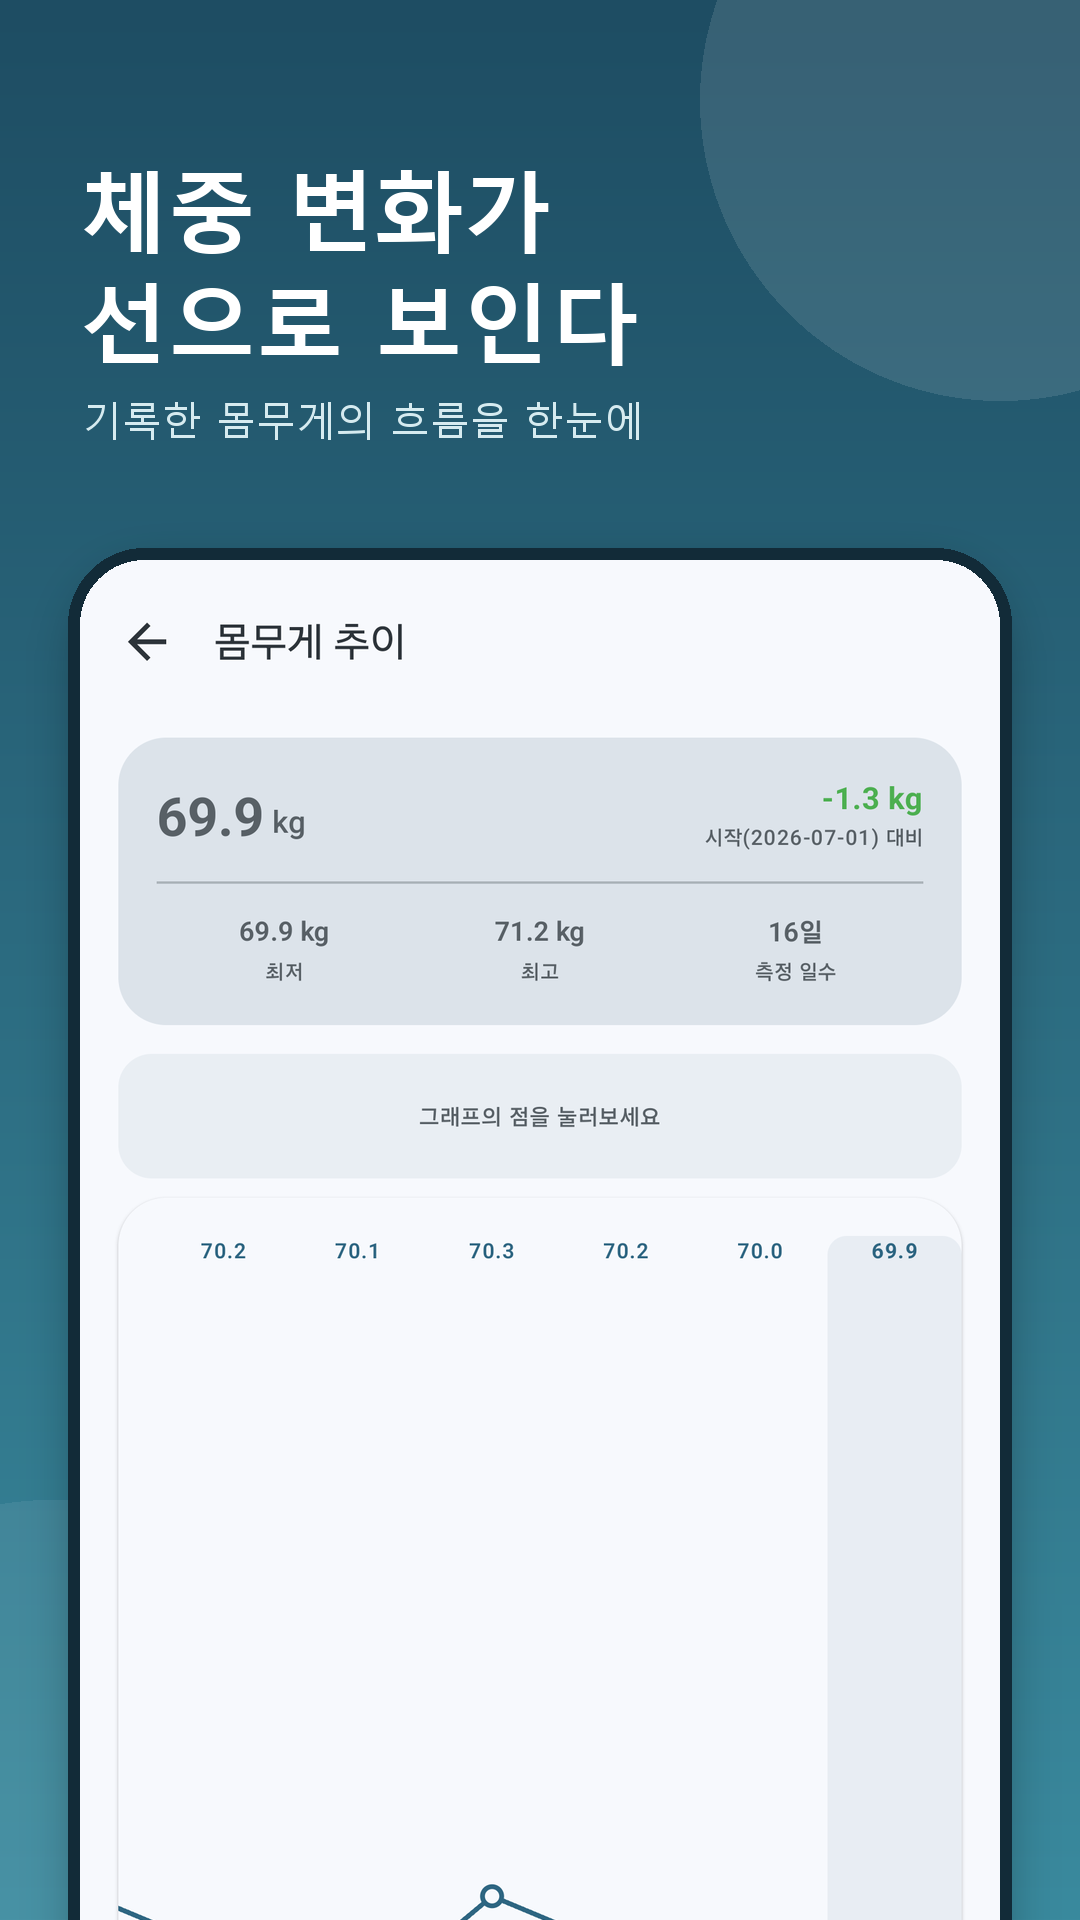
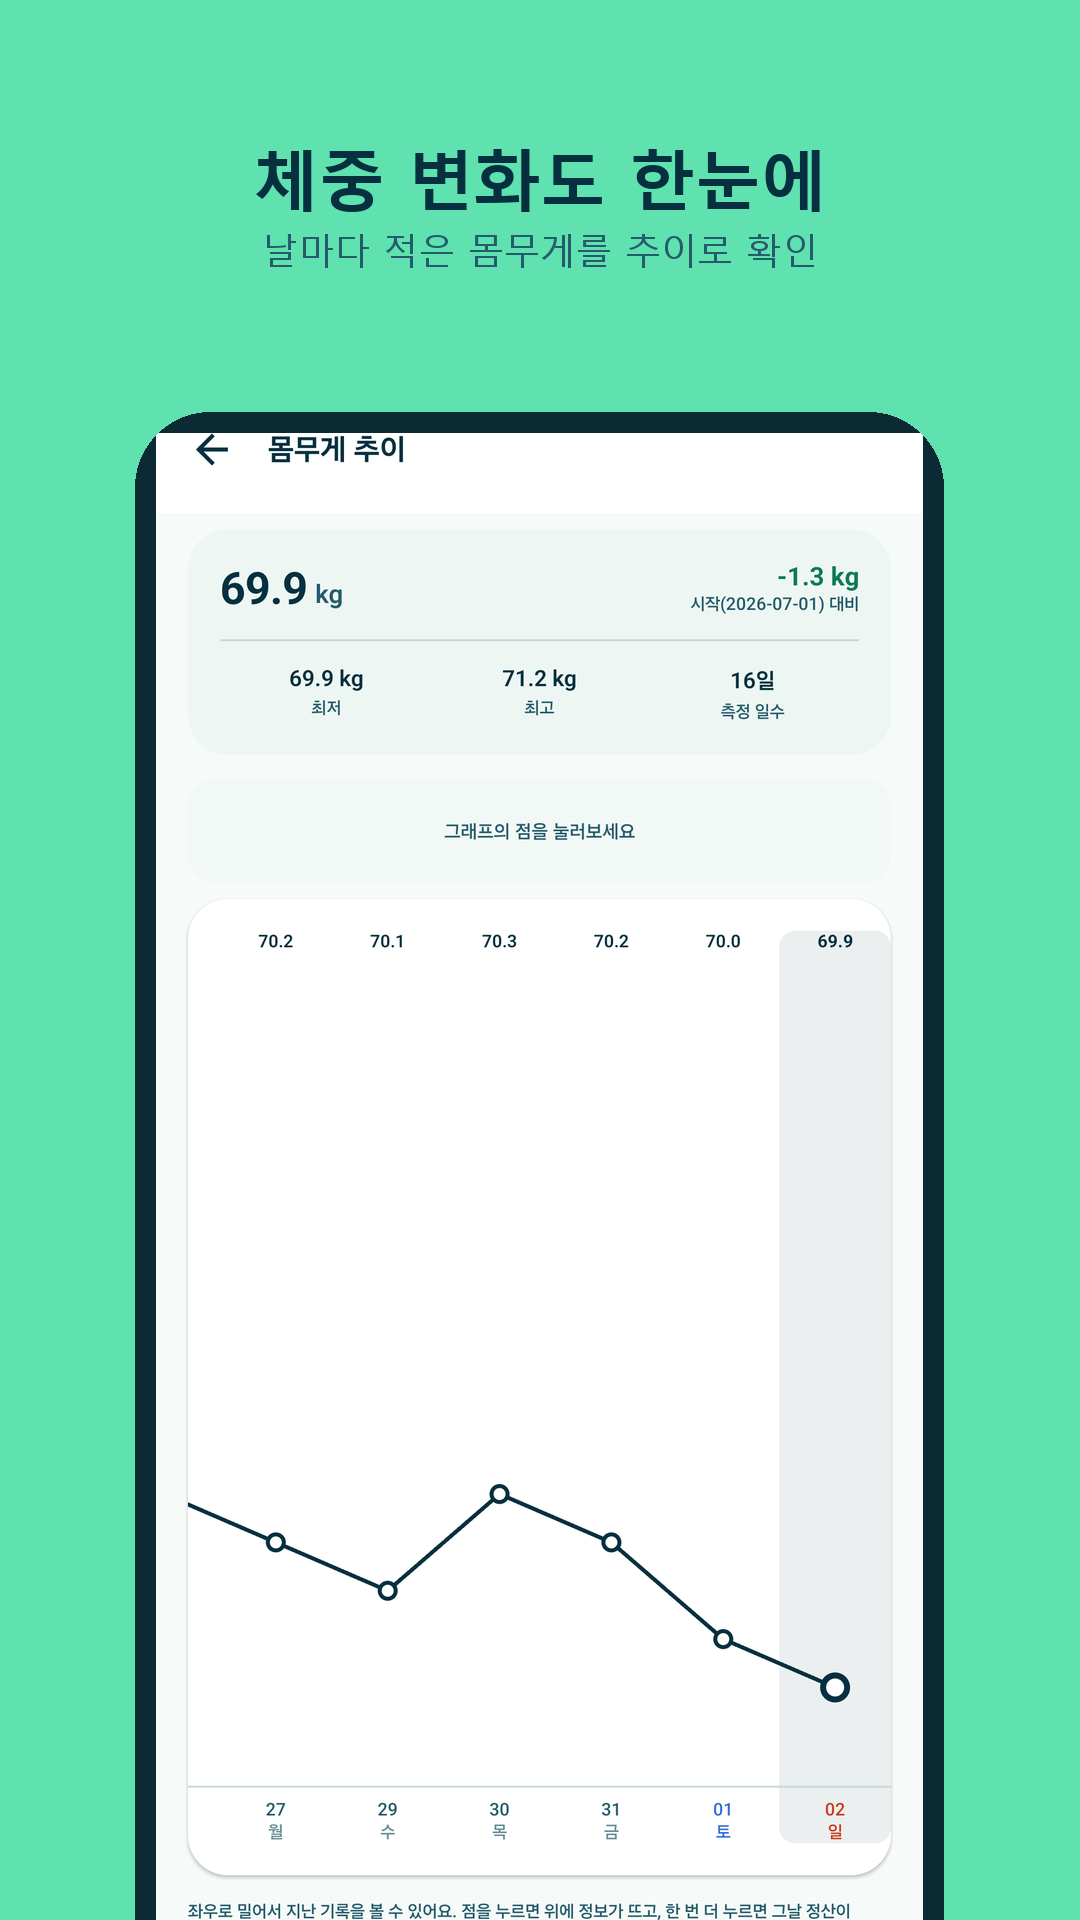
플레이 스토어 아이콘·그래픽 이미지·스크린샷 5장을 새 디자인으로 교체하고 등록정보 업로드에 아이콘·그래픽 포함
- play_listing.py: store-listing/ko-KR/icon.png(512)·feature-graphic.png(1024×500) 도 올린다
- 스크린샷은 테스트 계정 화면을 tools/make_store_shots.py 로 합성 (캡처 원본은 gitignore)
- 웹 랜딩 스크린샷 3장(main/report/month.webp)도 같은 캡처로 갱신

diff --git a/tools/make_store_shots.py b/tools/make_store_shots.py
@@ -1,0 +1,138 @@
+"""
+플레이 스토어 스크린샷·그래픽 이미지를 합성한다.
+
+입력: tools/store-captures/NN-<이름>.png  (폰 원본 캡처. 상태바 포함. 어떤 해상도든 됨)
+      tools/store-captures/captions.txt     (한 줄에 "NN|제목|부제". NN 은 파일 접두어)
+출력: store-listing/ko-KR/screenshots/NN.png          1080×1920 (휴대전화)
+      store-listing/ko-KR/screenshots-tablet/NN.png   1200×1920 (7·10인치 칸에 같은 파일)
+      store-listing/ko-KR/feature-graphic.png         1024×500  (그래픽 이미지)
+
+사용: python tools/make_store_shots.py   (저장소 루트에서. Pillow 필요. 한글 폰트는 Windows 의 malgun.ttf)
+
+규칙 (2026-11-16 리디자인 기획서 4.2)
+- 배경은 민트와 딥틸을 번갈아 쓴다
+- 장마다 제목 1줄 + 부제 1줄, 폰 화면이 세로의 60% 이상, 상태바 제거, 기능 1개씩
+- Play 규격: 2~8장, 16:9~9:16, 각 변 320~3840px
+
+캡처 원본은 저장소에 넣지 않는다 (개인 기록이 들어 있다). 이 스크립트와 captions.txt 만 남긴다.
+"""
+from pathlib import Path
+
+from PIL import Image, ImageDraw, ImageFont
+
+ROOT = Path(__file__).resolve().parent.parent
+CAPTURES = ROOT / "tools/store-captures"
+OUT_PHONE = ROOT / "store-listing/ko-KR/screenshots"
+OUT_TABLET = ROOT / "store-listing/ko-KR/screenshots-tablet"
+
+INK = (0x06, 0x30, 0x3F)
+MINT = (0x5F, 0xE1, 0xB0)
+CORAL = (0xFF, 0x4D, 0x2E)
+WHITE = (255, 255, 255)
+SUB_ON_MINT = (0x24, 0x5C, 0x6C)
+SUB_ON_INK = (0xBF, 0xE9, 0xDA)
+
+FONT_BOLD = "C:/Windows/Fonts/malgunbd.ttf"
+FONT_REG = "C:/Windows/Fonts/malgun.ttf"
+
+# 상태바 높이 비율. 캡처 폭 1440 기준 상단 약 110px 가 상태바다 (폰마다 다르면 여기만 고친다)
+STATUS_BAR_RATIO = 110 / 1440
+
+
+def font(path: str, size: int) -> ImageFont.FreeTypeFont:
+    return ImageFont.truetype(path, size)
+
+
+def rounded_mask(size, radius):
+    m = Image.new("L", size, 0)
+    ImageDraw.Draw(m).rounded_rectangle([0, 0, size[0] - 1, size[1] - 1], radius=radius, fill=255)
+    return m
+
+
+def compose(capture: Image.Image, title: str, subtitle: str, dark: bool, size=(1080, 1920)) -> Image.Image:
+    W, H = size
+    bg = INK if dark else MINT
+    fg = WHITE if dark else INK
+    sub = SUB_ON_INK if dark else SUB_ON_MINT
+    im = Image.new("RGB", (W, H), bg)
+    d = ImageDraw.Draw(im)
+
+    # 글
+    t_font = font(FONT_BOLD, int(W * 0.062))
+    s_font = font(FONT_REG, int(W * 0.034))
+    top = int(H * 0.07)
+    tw = d.textlength(title, font=t_font)
+    d.text(((W - tw) / 2, top), title, font=t_font, fill=fg)
+    sw = d.textlength(subtitle, font=s_font)
+    d.text(((W - sw) / 2, top + int(W * 0.085)), subtitle, font=s_font, fill=sub)
+
+    # 폰 화면: 상태바 잘라내고, 세로의 72% 를 차지하게 맞춘다. 아래로 흘러 나가게 두어 "계속된다"는 느낌을 준다
+    cw, ch = capture.size
+    cut = int(ch * STATUS_BAR_RATIO) if cw > 0 else 0
+    shot = capture.crop((0, cut, cw, ch))
+    target_h = int(H * 0.80)
+    scale = target_h / shot.height
+    shot = shot.resize((int(shot.width * scale), target_h), Image.LANCZOS)
+    # 폰 테두리
+    pad = int(W * 0.02)
+    frame_w, frame_h = shot.width + pad * 2, shot.height + pad * 2
+    frame = Image.new("RGB", (frame_w, frame_h), (0x0B, 0x2A, 0x33) if not dark else (0x1C, 0x4A, 0x56))
+    frame.paste(shot, (pad, pad))
+    radius = int(W * 0.07)
+    mask = rounded_mask((frame_w, frame_h), radius)
+    x = (W - frame_w) // 2
+    y = int(H * 0.215)
+    im.paste(frame, (x, y), mask)
+    # 아래쪽은 캔버스 밖으로 나간다 (crop 은 paste 가 알아서 한다)
+    return im
+
+
+def feature_graphic(icon: Image.Image) -> Image.Image:
+    """1024×500. 왼쪽에 아이콘, 오른쪽에 앱 이름과 한 줄 설명"""
+    W, H = 1024, 500
+    im = Image.new("RGB", (W, H), INK)
+    d = ImageDraw.Draw(im)
+    # 오른쪽 아래 민트 원 장식
+    d.ellipse([W - 420, H - 160, W + 200, H + 460], fill=(0x0F, 0x3D, 0x4C))
+    ic = icon.resize((260, 260), Image.LANCZOS)
+    mask = rounded_mask((260, 260), 58)
+    im.paste(ic, (96, (H - 260) // 2), mask)
+    name_font = font(FONT_BOLD, 92)
+    tag_font = font(FONT_REG, 36)
+    d.text((420, 150), "DailyNet", font=name_font, fill=WHITE)
+    d.text((424, 262), "먹고 움직인 만큼, 순칼로리로 정산", font=tag_font, fill=MINT)
+    d.text((424, 316), "사진 한 장으로 칼로리 · AI 리포트 · 월 정산", font=font(FONT_REG, 26), fill=SUB_ON_INK)
+    return im
+
+
+def main() -> None:
+    OUT_PHONE.mkdir(parents=True, exist_ok=True)
+    OUT_TABLET.mkdir(parents=True, exist_ok=True)
+
+    icon = Image.open(ROOT / "store-listing/ko-KR/icon.png").convert("RGB")
+    feature_graphic(icon).save(ROOT / "store-listing/ko-KR/feature-graphic.png", optimize=True)
+    print("feature-graphic.png")
+
+    captions_path = CAPTURES / "captions.txt"
+    if not captions_path.exists():
+        print(f"{captions_path} 가 없어 스크린샷은 건너뛴다")
+        return
+    rows = [l.split("|") for l in captions_path.read_text(encoding="utf-8").splitlines() if l.strip() and not l.startswith("#")]
+
+    # 기존 것을 전부 지우고 다시 만든다 (장수가 줄어도 옛 파일이 남지 않게)
+    for p in list(OUT_PHONE.glob("*.png")) + list(OUT_TABLET.glob("*.png")):
+        p.unlink()
+
+    for i, (num, title, subtitle) in enumerate(rows):
+        src = next(CAPTURES.glob(f"{num}-*.png"), None)
+        if src is None:
+            raise SystemExit(f"{num}-*.png 캡처가 없다")
+        cap = Image.open(src).convert("RGB")
+        dark = i % 2 == 1
+        compose(cap, title, subtitle, dark, (1080, 1920)).save(OUT_PHONE / f"{num}.png", optimize=True)
+        compose(cap, title, subtitle, dark, (1200, 1920)).save(OUT_TABLET / f"{num}.png", optimize=True)
+        print(f"{num}.png  {title}")
+
+
+if __name__ == "__main__":
+    main()

diff --git a/.github/scripts/play_listing.py b/.github/scripts/play_listing.py
@@ -38,6 +38,23 @@ def read_listing(folder: Path) -> dict:
     return body
 
 
+def upload_single_image(s: AuthorizedSession, edit_id: str, lang: str, path: Path, image_type: str) -> int:
+    """
+    한 장짜리 이미지 칸(icon / featureGraphic)을 바꾼다. 기존 것을 지우고 새 파일을 올린다.
+    icon 은 512×512 PNG, featureGraphic 은 1024×500 PNG 여야 한다 (크기가 다르면 API 가 400 으로 거절한다).
+    """
+    r = s.delete(f"{BASE}/{edit_id}/listings/{lang}/{image_type}")
+    if r.status_code not in (200, 204):
+        sys.exit(f"::error::{lang} {image_type} 기존 이미지 삭제 실패 {r.status_code}: {r.text[:300]}")
+    upload = (f"https://androidpublisher.googleapis.com/upload/androidpublisher/v3/applications/{PACKAGE}"
+              f"/edits/{edit_id}/listings/{lang}/{image_type}?uploadType=media")
+    r = s.post(upload, data=path.read_bytes(), headers={"Content-Type": "image/png"})
+    if r.status_code != 200:
+        sys.exit(f"::error::{path.name} 업로드 실패 {r.status_code}: {r.text[:300]}")
+    print(f"  올림 [{image_type}]: {path.name} ({path.stat().st_size // 1024}KB)")
+    return 1
+
+
 def upload_screenshots(s: AuthorizedSession, edit_id: str, lang: str, shots: list, image_type: str) -> int:
     """
     *.png 를 파일명 순서대로 image_type(phoneScreenshots / sevenInchScreenshots / tenInchScreenshots) 칸에 올린다.
@@ -97,9 +114,18 @@ def main() -> None:
                   f"자세한 설명 {len(body['fullDescription'])}자 {'(변경 없음)' if same else '(변경됨)'}")
             shots = sorted((folder / "screenshots").glob("*.png")) if (folder / "screenshots").is_dir() else []
             tablet = sorted((folder / "screenshots-tablet").glob("*.png")) if (folder / "screenshots-tablet").is_dir() else []
-            print(f"[{lang}] 휴대전화 스크린샷 {len(shots)}장 / 태블릿 {len(tablet)}장")
+            icon = folder / "icon.png"
+            feature = folder / "feature-graphic.png"
+            print(f"[{lang}] 휴대전화 스크린샷 {len(shots)}장 / 태블릿 {len(tablet)}장 / "
+                  f"아이콘 {'있음' if icon.exists() else '없음'} / 그래픽 {'있음' if feature.exists() else '없음'}")
             if check_only:
                 continue
+            # 앱 아이콘(512)·그래픽 이미지(1024×500). 파일이 있을 때만 바꾼다.
+            # 아이콘은 tools/make_icons.py 가 앱 안의 벡터와 같은 원본에서 뽑아 둔다.
+            if icon.exists():
+                changed += upload_single_image(s, edit_id, lang, icon, "icon")
+            if feature.exists():
+                changed += upload_single_image(s, edit_id, lang, feature, "featureGraphic")
             if not same:
                 body["language"] = lang
                 r = s.put(f"{BASE}/{edit_id}/listings/{lang}", json=body)

diff --git a/store-listing/README.md b/store-listing/README.md
@@ -1,9 +1,11 @@
 # DailyNet 스토어 검색 개선
 
-작성일: 2026-09-28 · 갱신: 2026-11-16
+작성일: 2026-09-28 · 갱신: 2026-11-16 (리디자인 에셋)
 
 ## 적용 상태
 
+- 2026-11-16 (b53 리디자인): 앱 아이콘(512)·그래픽 이미지(1024×500)·스크린샷 5장을 새 디자인으로 교체했다.
+  `play_listing.py` 가 icon.png 와 feature-graphic.png 도 함께 올리도록 확장했다. 이 커밋이 main 에 들어가면 listing 잡이 반영한다.
 - 2026-11-16: 검색 유입이 높은 낱말을 앱 이름과 간단한 설명 앞쪽에 다시 배치했다. 앱 이름에 "AI 칼로리 계산기"를 넣어
   "칼로리 계산기"·"AI 식단" 검색과 붙이고, "다이어트 식단 기록"은 그대로 뒤에 남겼다(기존에 겨냥하던 "다이어트" 가중치 유지).
   자세한 설명에는 인바디 결과지 인식과 구글 캘린더 연동을 더했다 — 실제 기능인데 문안에 없던 항목이다. 길이 1,540자.
@@ -22,11 +24,15 @@
 - 앱 이름: ko-KR/title.txt (30자)
 - 간단한 설명: ko-KR/short-description.txt (80자)
 - 자세한 설명: ko-KR/full-description.txt (4,000자)
+- 앱 아이콘: ko-KR/icon.png (512×512. `tools/make_icons.py` 가 앱 안의 벡터 아이콘과 같은 원본에서 뽑는다)
+- 그래픽 이미지: ko-KR/feature-graphic.png (1024×500. `tools/make_store_shots.py` 가 만든다)
 - 휴대전화 스크린샷: ko-KR/screenshots/01.png … (1080×1920, 최대 8장, 파일명 순서대로. 올릴 때 기존 것을 전부 지우고 다시 올린다)
 - 태블릿 스크린샷: ko-KR/screenshots-tablet/01.png … (1200×1920, 7인치·10인치 칸에 같은 파일을 올린다)
 
-스크린샷은 실제 폰 캡처(상태바 제거)를 짙은 청록 그라데이션 배경에 제목·부제와 함께 합성한 것이다 (2026-10-02).
-합성 스크립트는 저장소에 없다. 다시 만들 때는 캡처 5장(홈 / AI 리포트 / 입력 / 월 결산 / 체중 추이)을 같은 순서로 찍는다.
+스크린샷은 실제 폰 캡처(상태바 제거)를 민트·딥틸 배경에 번갈아 얹고 제목·부제를 붙인 것이다 (2026-11-16 리디자인 뒤 재촬영).
+합성 스크립트는 `tools/make_store_shots.py`, 제목·부제는 `tools/store-captures/captions.txt` 에 있다.
+다시 만들 때는 캡처를 `tools/store-captures/NN-이름.png` 로 두고 스크립트를 돌린다 (캡처 원본은 개인 기록이 들어 있어 커밋하지 않는다).
+순서: 홈 / AI 리포트 / 월 정산 / 입력(사진 버튼) / 인바디.
 
 길이 제한은 스크립트가 올리기 전에 검사한다.
 
